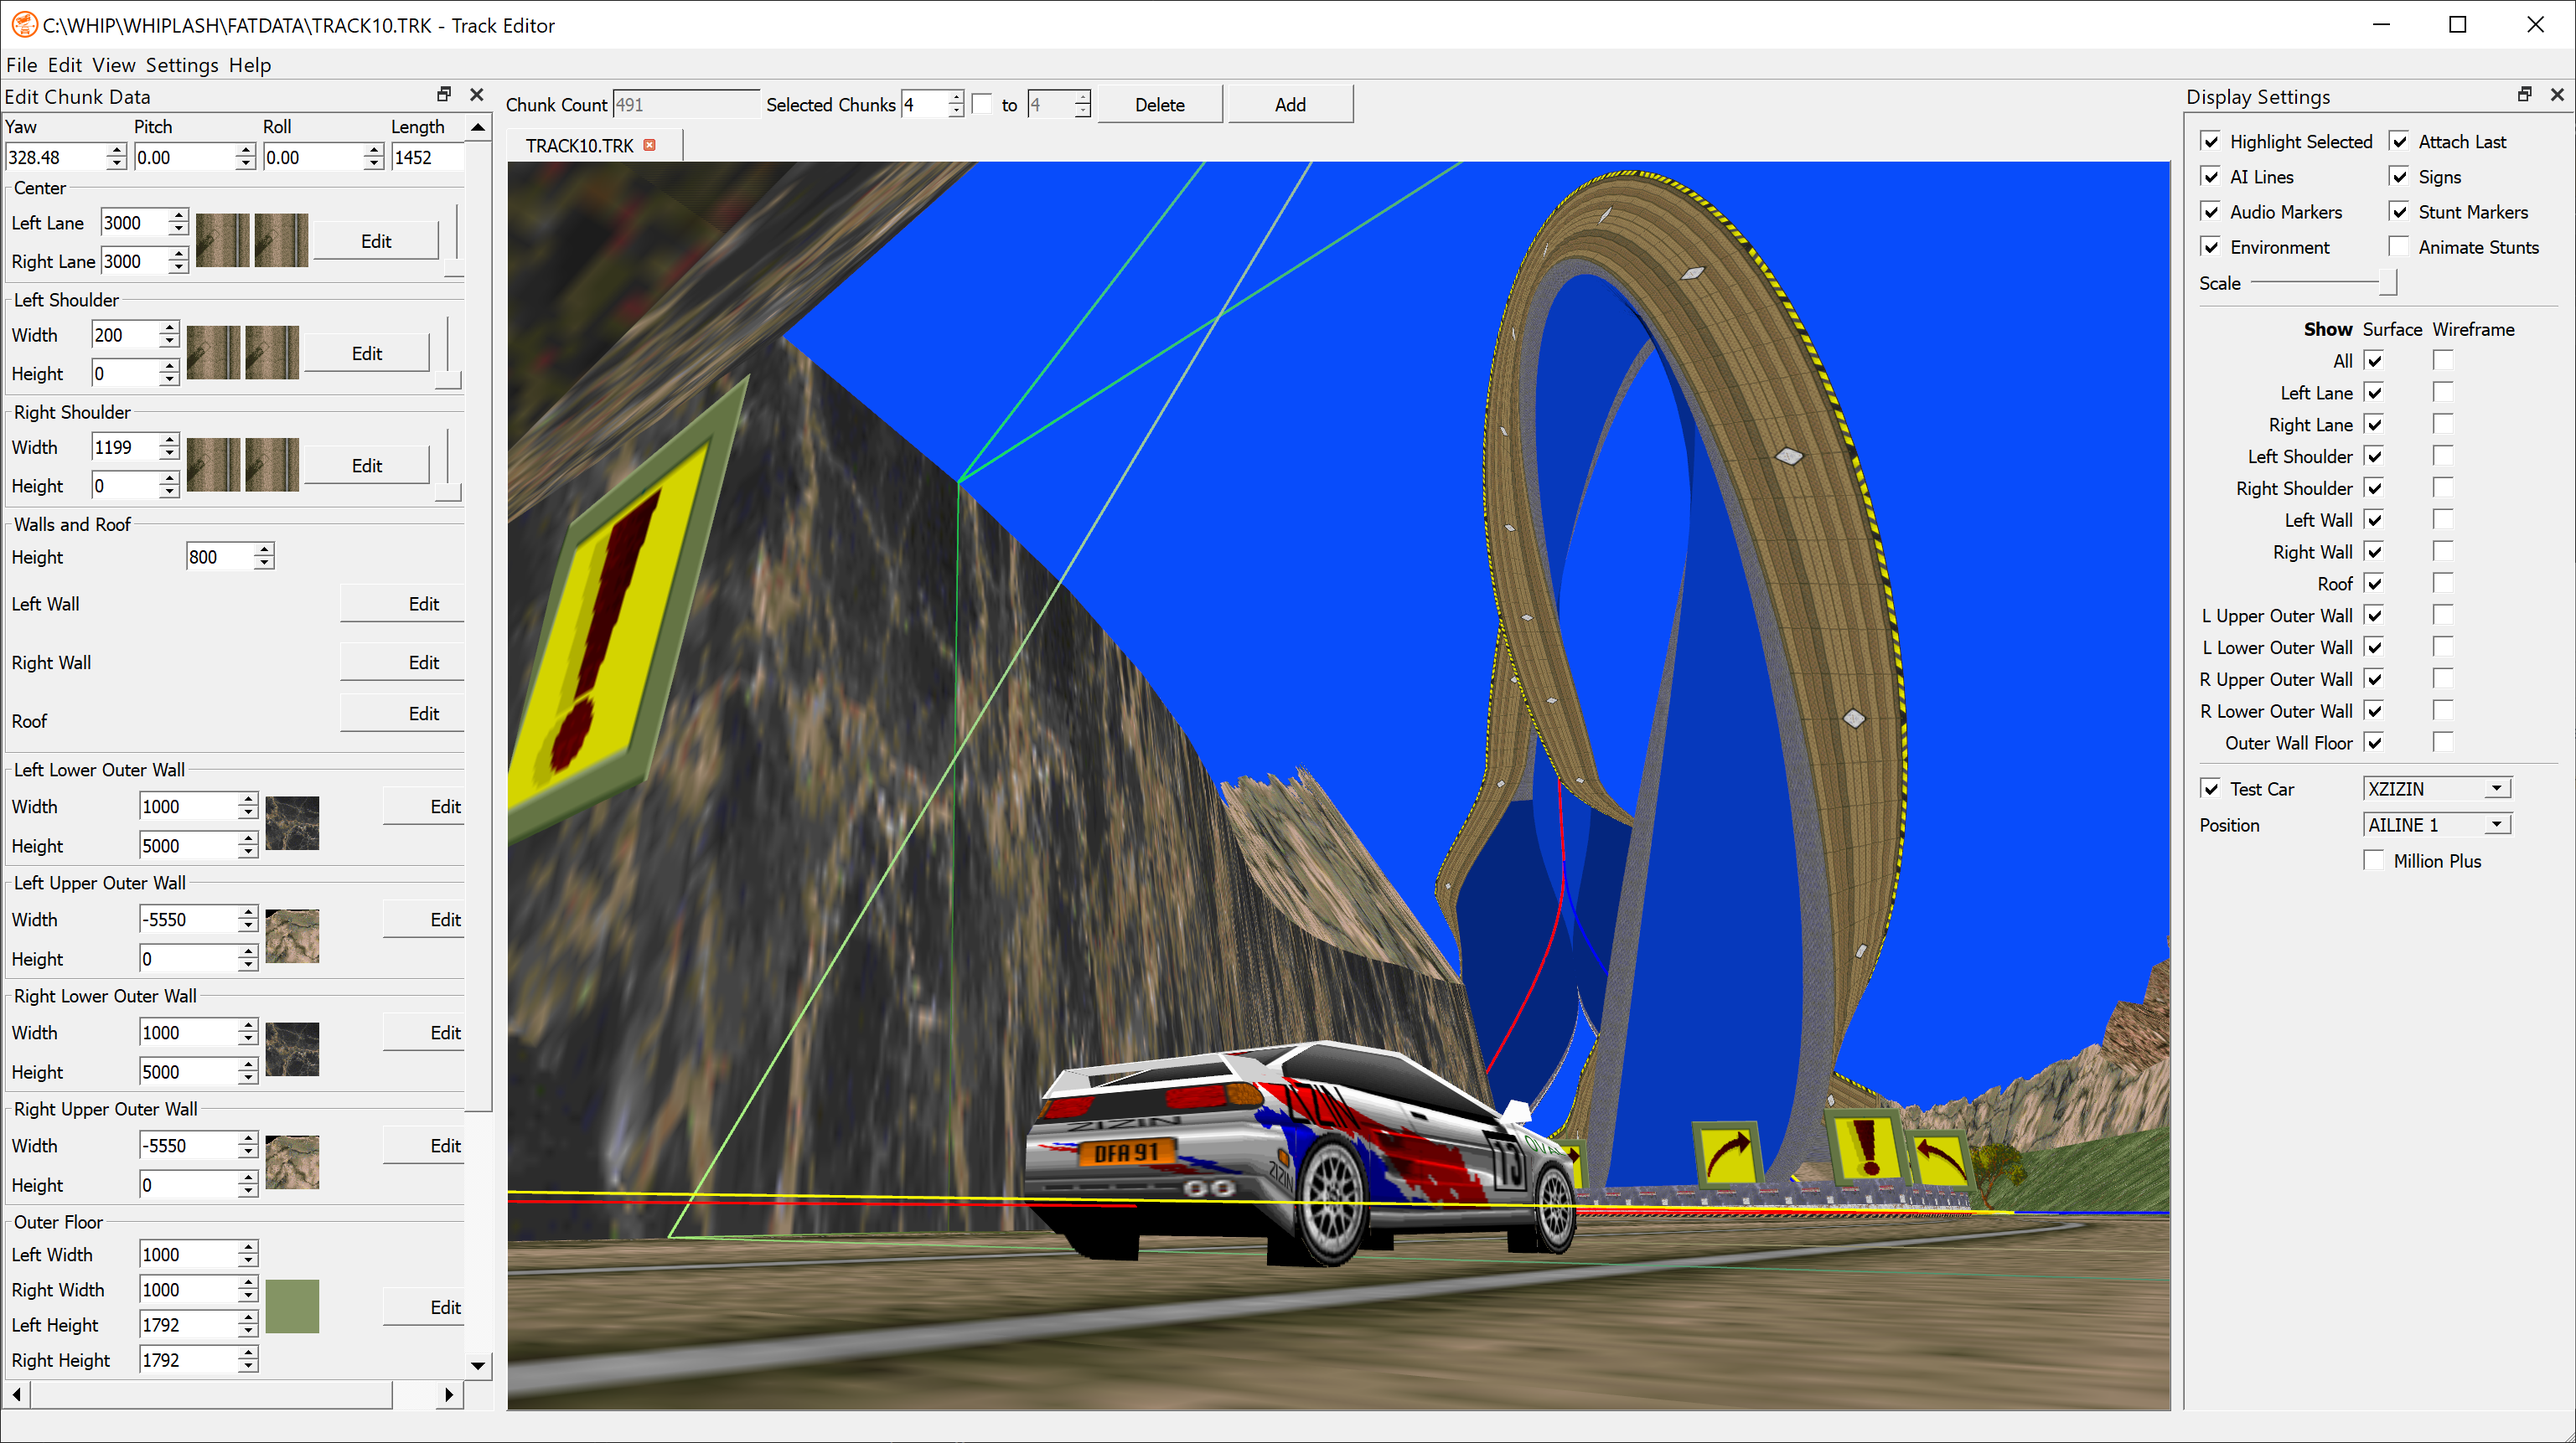
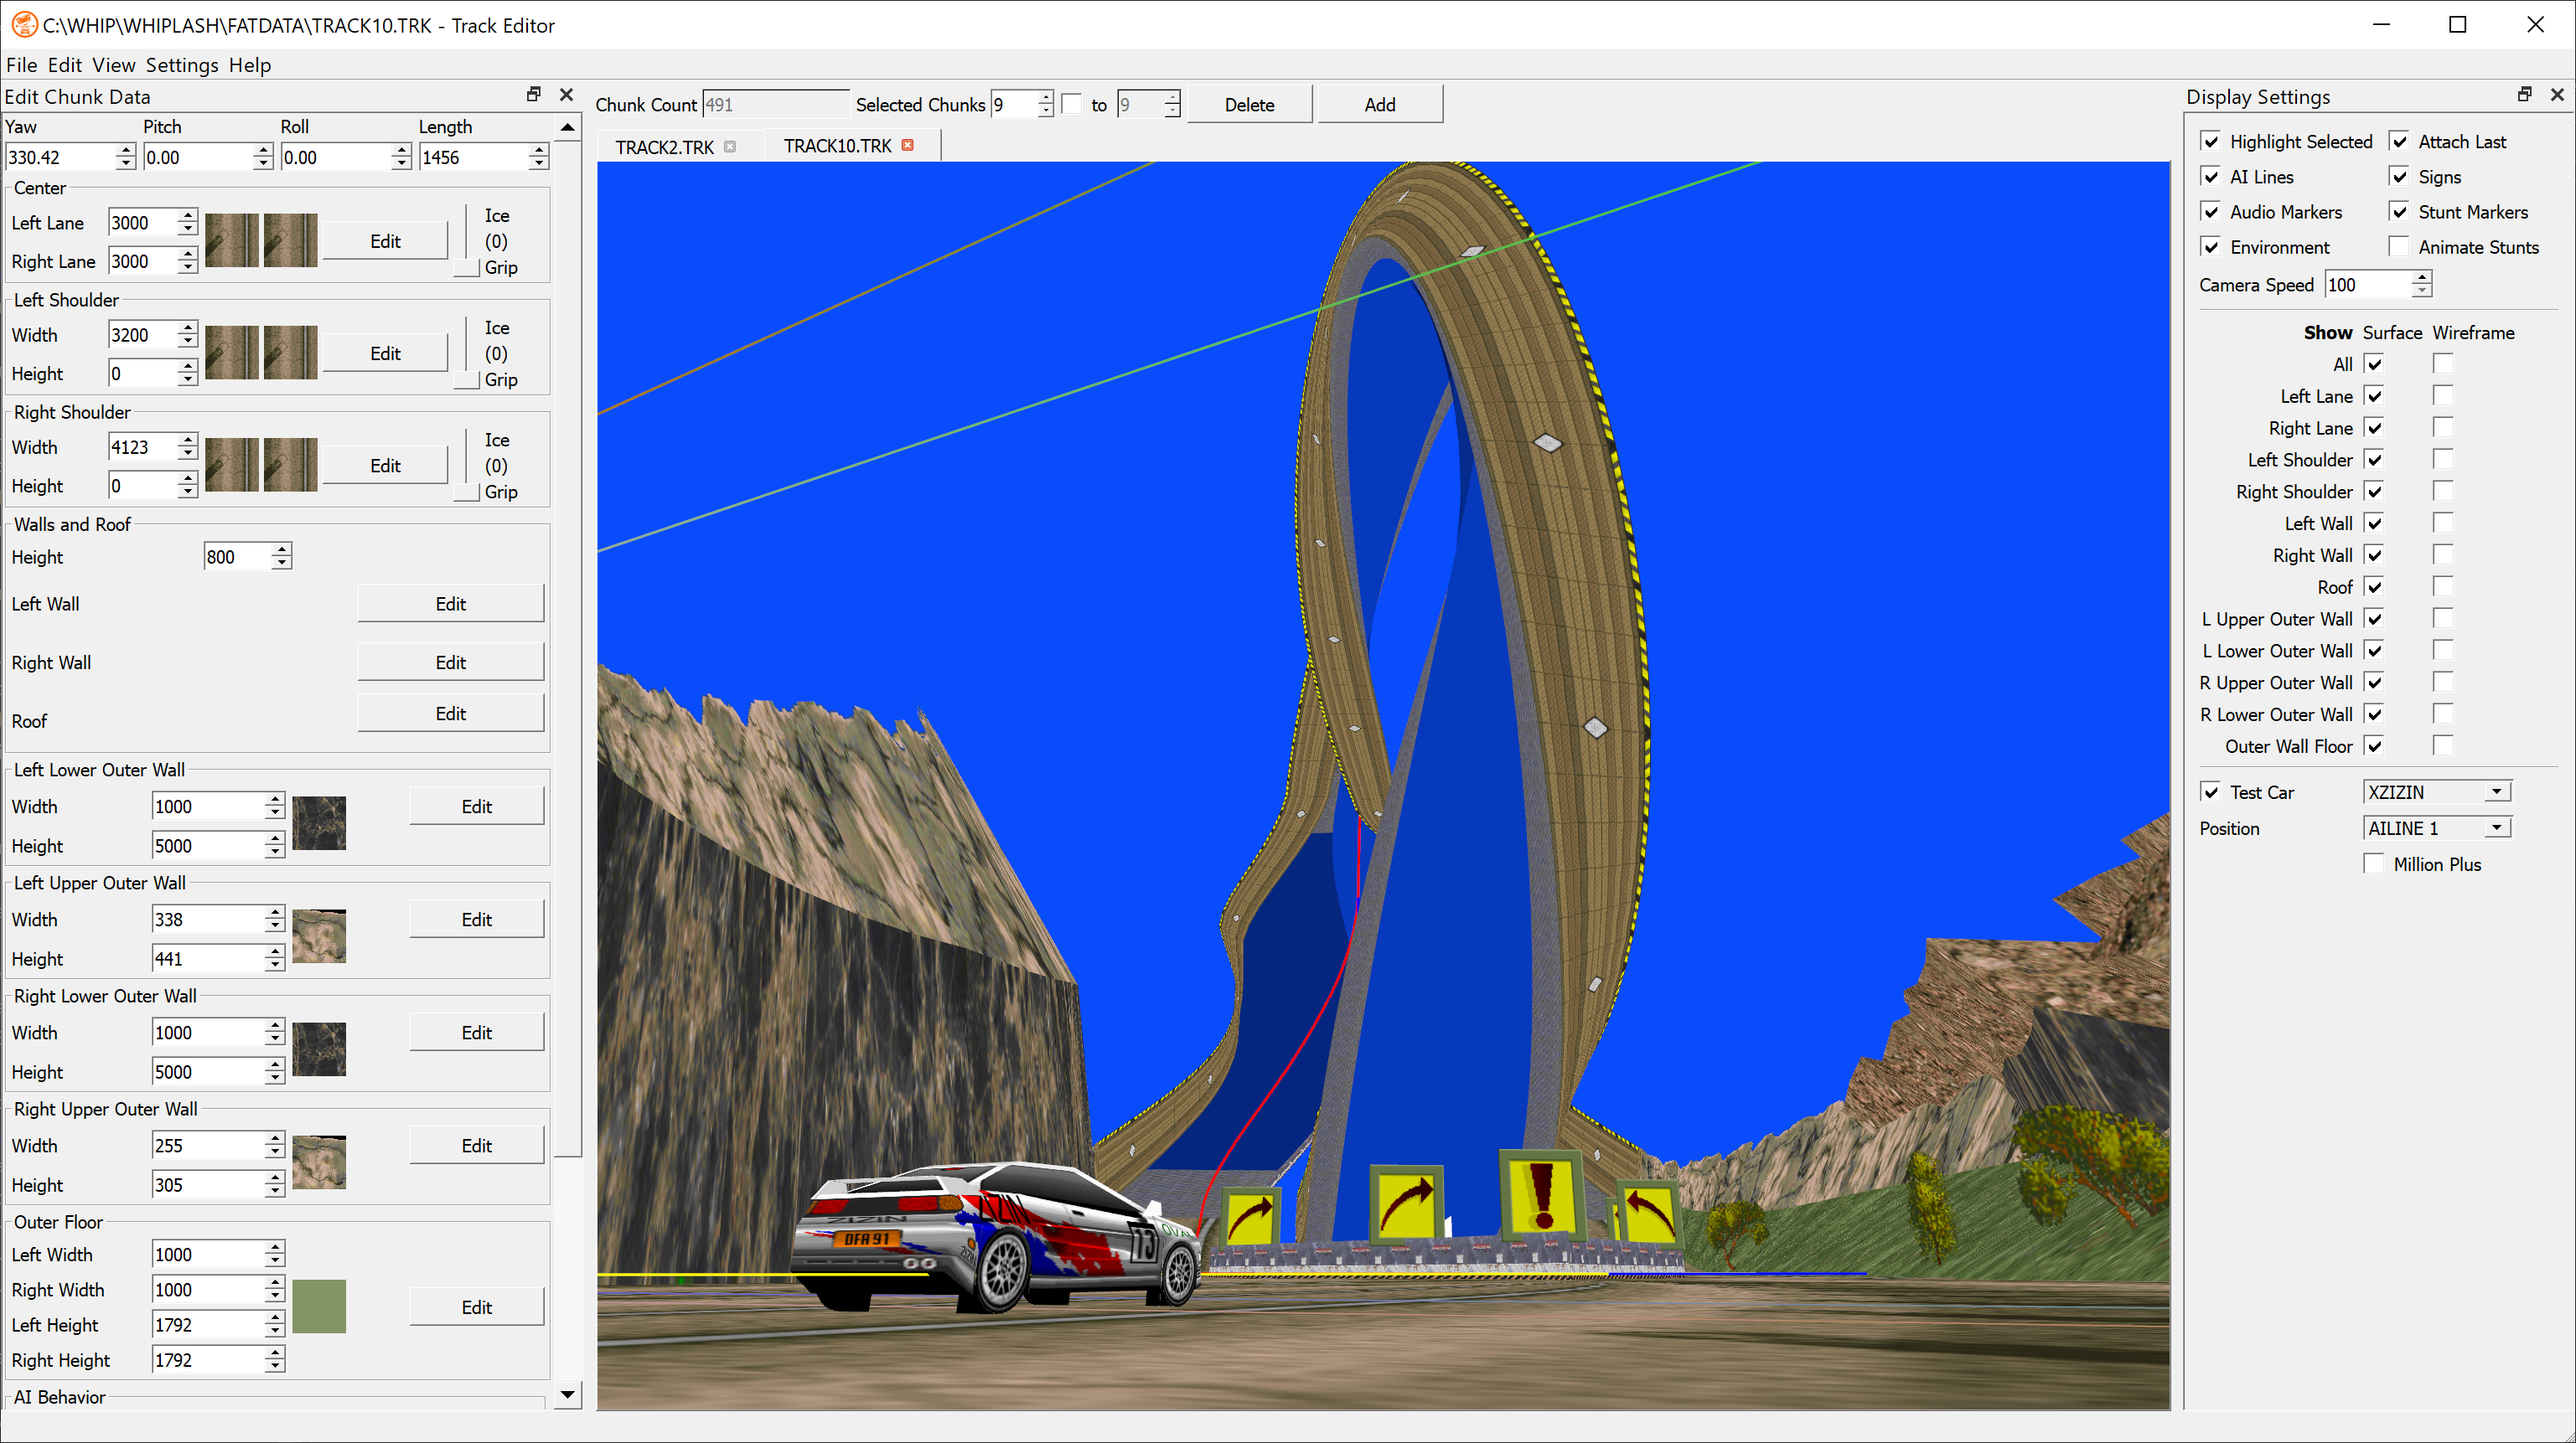
adding camera speed option to replace scale

diff --git a/TrackEditor/DisplaySettings.cpp b/TrackEditor/DisplaySettings.cpp
@@ -1,6 +1,7 @@
 #include "TrackEditor.h"
 #include "DisplaySettings.h"
 #include "QtHelpers.h"
+#include "Camera.h"
 //-------------------------------------------------------------------------------------------------
 #if defined(_DEBUG) && defined(IS_WINDOWS)
 #define new new(_CLIENT_BLOCK, __FILE__, __LINE__)
@@ -86,6 +87,7 @@ CDisplaySettings::CDisplaySettings(QWidget *pParent)
   connect(cbTestCarPos, SIGNAL(currentIndexChanged(int)), this, SLOT(UpdatePreviewSelection()));
   connect(ckMillionPlus, &QCheckBox::toggled, this, &CDisplaySettings::UpdatePreviewSelection);
   connect(ckAttachLast, &QCheckBox::toggled, this, &CDisplaySettings::AttachLastCheckedSig);
+  connect(sbCameraSpeed, SIGNAL(valueChanged(int)), this, SLOT(OnCameraSpeedChanged(int)));
 
   UpdateAllSurface();
   UpdateAllWireframe();
@@ -202,6 +204,20 @@ void CDisplaySettings::SetAttachLast(bool bAttachLast)
 
 //-------------------------------------------------------------------------------------------------
 
+int CDisplaySettings::GetCameraSpeed()
+{
+  return sbCameraSpeed->value();
+}
+
+//-------------------------------------------------------------------------------------------------
+
+void CDisplaySettings::SetCameraSpeed(int iSpeed)
+{
+  sbCameraSpeed->setValue(iSpeed);
+}
+
+//-------------------------------------------------------------------------------------------------
+
 void CDisplaySettings::UpdateAllSurface()
 {
   BLOCK_SIG_AND_DO(ckLLaneSurface, setChecked(ckAllSurface->isChecked()));
@@ -275,6 +291,13 @@ void CDisplaySettings::UpdatePreviewSelection()
   BLOCK_SIG_AND_DO(ckAllWireframe, setChecked(bAllWireframeChecked));
 
   UpdatePreviewSig();
+}
+
+//-------------------------------------------------------------------------------------------------
+
+void CDisplaySettings::OnCameraSpeedChanged(int iSpeed)
+{
+  Camera::s_fMovementSpeed = (float)iSpeed;
 }
 
 //-------------------------------------------------------------------------------------------------

diff --git a/WhipLib/Camera.cpp b/WhipLib/Camera.cpp
@@ -5,7 +5,7 @@
 #define new new(_CLIENT_BLOCK, __FILE__, __LINE__)
 #endif
 //-------------------------------------------------------------------------------------------------
-const float Camera::MOVEMENT_SPEED = 1000.0f;
+float Camera::s_fMovementSpeed = 1000.0f;
 //-------------------------------------------------------------------------------------------------
 
 Camera::Camera()
@@ -46,42 +46,42 @@ glm::mat4 Camera::GetWorldToViewMatrix() const
 
 void Camera::MoveForward()
 {
-  m_position += MOVEMENT_SPEED * m_viewDirection;
+  m_position += s_fMovementSpeed * m_viewDirection;
 }
 
 //-------------------------------------------------------------------------------------------------
 
 void Camera::MoveBackward()
 {
-  m_position -= MOVEMENT_SPEED * m_viewDirection;
+  m_position -= s_fMovementSpeed * m_viewDirection;
 }
 
 //-------------------------------------------------------------------------------------------------
 
 void Camera::StrafeLeft()
 {
-  m_position -= MOVEMENT_SPEED * m_strafeDirection;
+  m_position -= s_fMovementSpeed * m_strafeDirection;
 }
 
 //-------------------------------------------------------------------------------------------------
 
 void Camera::StrafeRight()
 {
-  m_position += MOVEMENT_SPEED * m_strafeDirection;
+  m_position += s_fMovementSpeed * m_strafeDirection;
 }
 
 //-------------------------------------------------------------------------------------------------
 
 void Camera::MoveUp()
 {
-  m_position += MOVEMENT_SPEED * m_UP;
+  m_position += s_fMovementSpeed * m_UP;
 }
 
 //-------------------------------------------------------------------------------------------------
 
 void Camera::MoveDown()
 {
-  m_position -= MOVEMENT_SPEED * m_UP;
+  m_position -= s_fMovementSpeed * m_UP;
 }
 
 //-------------------------------------------------------------------------------------------------

diff --git a/TrackEditor/MainWindow.cpp b/TrackEditor/MainWindow.cpp
@@ -27,6 +27,7 @@
 #include "NewTrackDialog.h"
 #include "PreferencesDialog.h"
 #include "AssignBacksDialog.h"
+#include "Camera.h"
 #include "qtimer.h"
 #if defined (IS_WINDOWS)
   #include <Windows.h>
@@ -1094,15 +1095,18 @@ void CMainWindow::LoadSettings()
   bool bMillionPlus;
   uint32 uiShowModels = p->m_pDisplaySettings->GetDisplaySettings(carModel, aiLine, bMillionPlus);
   bool bAttachLast = p->m_pDisplaySettings->GetAttachLast();
+  int iCameraSpeed = (int)Camera::s_fMovementSpeed;
   //load display settings
   uiShowModels = settings.value("show_models", uiShowModels).toUInt();
   carModel = (eWhipModel)settings.value("car_model", (int)carModel).toInt();
   aiLine = (eShapeSection)settings.value("car_pos", (int)aiLine).toInt();
   bMillionPlus = settings.value("wrong_way", bMillionPlus).toBool();
   bAttachLast = settings.value("attach_last", bAttachLast).toBool();
+  iCameraSpeed = settings.value("camera_speed", iCameraSpeed).toInt();
   //apply display settings
   p->m_pDisplaySettings->SetDisplaySettings(uiShowModels, carModel, aiLine, bMillionPlus);
   p->m_pDisplaySettings->SetAttachLast(bAttachLast);
+  p->m_pDisplaySettings->SetCameraSpeed(iCameraSpeed);
 
   //preferences
   m_preferences.iHistoryMaxSize = settings.value("history_max_size", m_preferences.iHistoryMaxSize).toInt();
@@ -1150,6 +1154,7 @@ void CMainWindow::SaveSettings()
   settings.setValue("car_pos", (int)aiLine);
   settings.setValue("wrong_way", bMillionPlus);
   settings.setValue("attach_last", p->m_pDisplaySettings->GetAttachLast());
+  settings.setValue("camera_speed", p->m_pDisplaySettings->GetCameraSpeed());
   settings.setValue("history_max_size", m_preferences.iHistoryMaxSize);
   settings.setValue("paste_new_chunks", m_preferences.bPasteNewChunks);
   settings.setValue("copy_relative_yaw", m_preferences.bCopyRelativeYaw);

diff --git a/TrackEditor/DisplaySettings.h b/TrackEditor/DisplaySettings.h
@@ -50,11 +50,14 @@ public:
   void SetDisplaySettings(uint32 uiShowModels, eWhipModel carModel, eShapeSection aiLine, bool bMillionPlus);
   bool GetAttachLast();
   void SetAttachLast(bool bAttachLast);
+  int GetCameraSpeed();
+  void SetCameraSpeed(int iSpeed);
 
 protected slots:
   void UpdateAllSurface();
   void UpdateAllWireframe();
   void UpdatePreviewSelection();
+  void OnCameraSpeedChanged(int iSpeed);
 
 signals:
   void AttachLastCheckedSig(bool bChecked);

diff --git a/WhipLib/Camera.h b/WhipLib/Camera.h
@@ -18,8 +18,9 @@ public:
   void MoveDown();
   glm::vec3 GetPosition() { return m_position; };
 
+  static float s_fMovementSpeed;
+
 private:
-  static const float MOVEMENT_SPEED;
   glm::vec3 m_position;
   glm::vec3 m_viewDirection;
   glm::vec3 m_strafeDirection;
